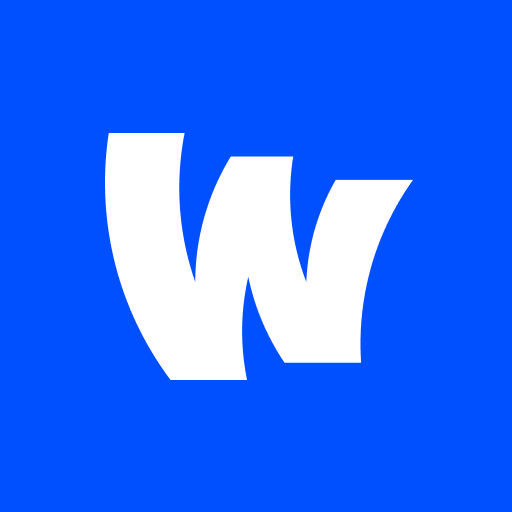
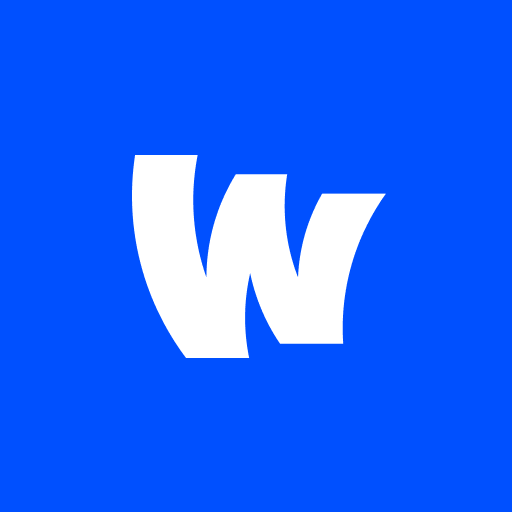
이미지사이즈 재수정

Changed region(s): [[0.1875, 0.25, 0.8125, 0.75]]

diff --git a/vite.config.ts b/vite.config.ts
@@ -8,8 +8,8 @@ export default defineConfig({
     VitePWA({
       registerType: "autoUpdate",
       manifest: {
-        name: "My React App",
-        short_name: "Wavve-test",
+        name: "Wavve App",
+        short_name: "Wavve",
         start_url: "/",
         display: "standalone",
         // 화면이 열릴때 보이는 배경
@@ -17,9 +17,12 @@ export default defineConfig({
         theme_color: "#000000",
         icons: [
           {
-            src: "/Wavve_192x192.svg",
+            // src: "/Wavve_192x192.svg",
+            // sizes: "192x192",
+            // type: "image/svg+xml",
+            src: "/Wavve_192x192.png",
             sizes: "192x192",
-            type: "image/svg+xml",
+            type: "image/png",
             purpose: "any maskable",
           },
           {
